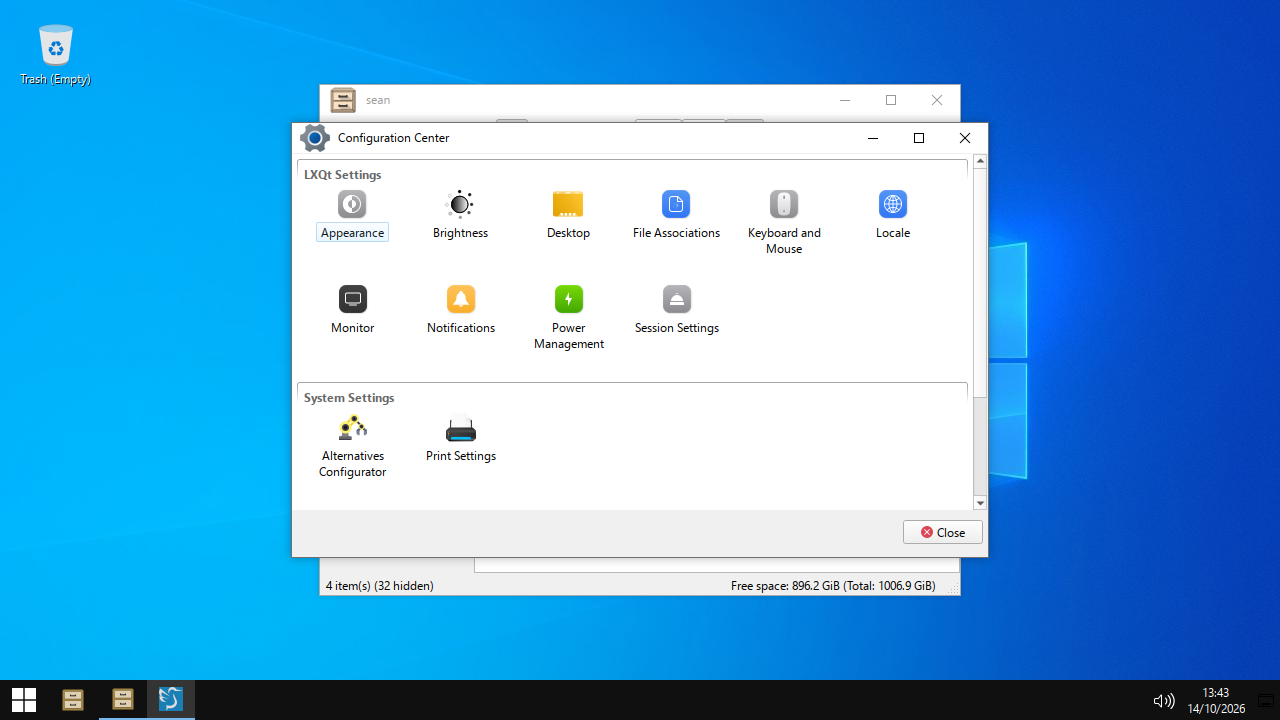
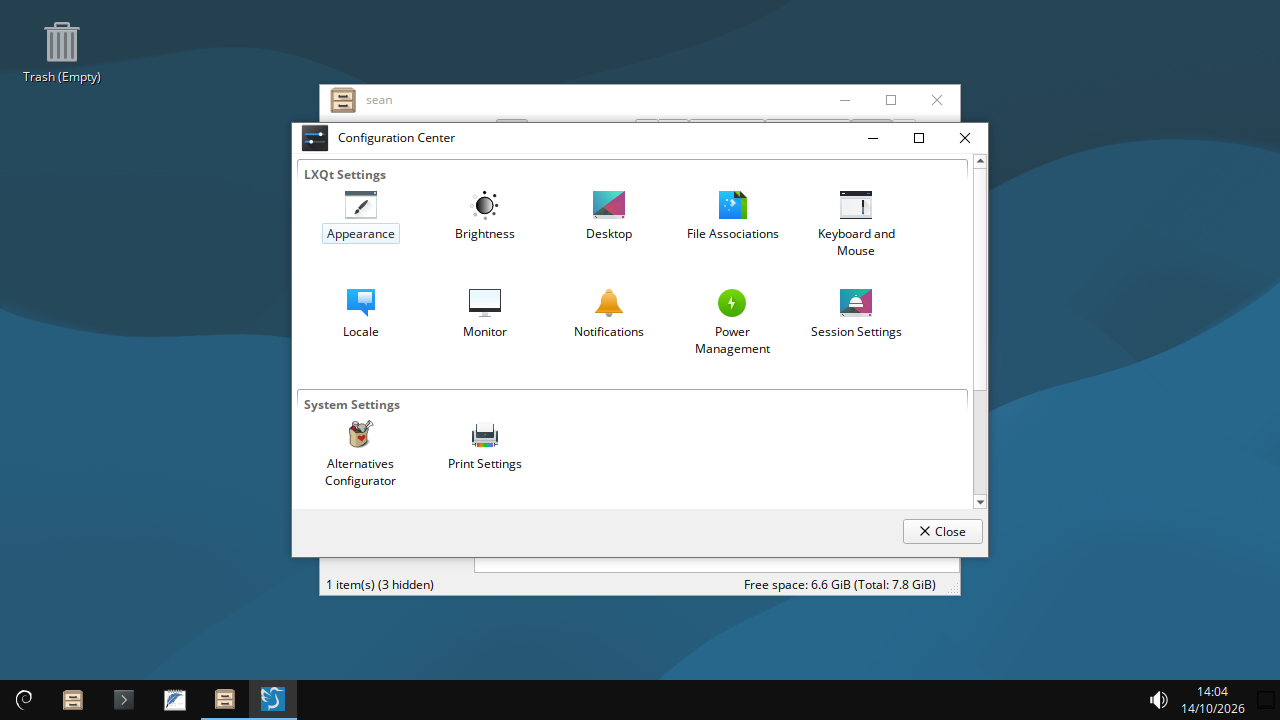
[SEAN-665] fix: winlike uses Debian defaults, not Microsoft assets
winlike keeps the Windows 10 behavior and layout, but uses no Microsoft
files and no copies of them.

- Icons: breeze. Cursors: Breeze_Light. GTK: Adwaita. Font: Open Sans.
  Wallpaper and start button logo: desktop-base.
- install.sh fetches nothing from GitHub and copies nothing from C:\Windows.
  It removes the Windows files that older versions installed.
- A small winlike icon theme adds white breeze-dark volume glyphs, so the
  glyph is legible on the dark taskbar.
- The Win10 themes are now winlike themes. We drew them.
- Menu labels and the README give the true app names.

diff --git a/utils/winlike/README.md b/utils/winlike/README.md
@@ -1,19 +1,25 @@
 # winlike
 
-A Linux desktop with the look and feel of Windows 10. It runs in a window on
-the Windows desktop through WSLg, so you can change it and test it quickly.
+A Linux desktop with the behavior and layout of Windows 10. It runs in a window
+on the Windows desktop through WSLg, so you can change it and test it quickly.
+
+It uses no Microsoft files and no copies of them. The icons, cursors, font,
+wallpaper and start button logo are Debian defaults. Each menu label gives the
+name of the app that it opens.
 
 ![winlike desktop](screenshot.png)
 
 | Part | Tool |
 |---|---|
-| Window manager (compositor) | [labwc](https://labwc.github.io/) 0.8 with the `Win10` theme from this directory |
-| Taskbar and start menu | `lxqt-panel` 2.1 with the `Win10` LXQt theme from this directory |
+| Window manager (compositor) | [labwc](https://labwc.github.io/) 0.8 with the `winlike` theme from this directory |
+| Taskbar and start menu | `lxqt-panel` 2.1 with the `winlike` LXQt theme from this directory |
 | Desktop (wallpaper, icons, rubber-band select) | `pcmanfm-qt --desktop` |
-| Icons | [We10X](https://github.com/yeyushengfan258/We10X-icon-theme) |
-| Cursors | [We10XOS-cursors](https://github.com/yeyushengfan258/We10XOS-cursors) |
-| GTK theme | [B00merang Windows-10](https://github.com/B00merang-Project/Windows-10) |
-| Fonts and wallpaper | Segoe UI, Consolas and `img0` from `C:\Windows` |
+| Icons | breeze (`breeze-icon-theme`). The taskbar volume glyph comes from breeze-dark. |
+| Cursors | Breeze_Light (`breeze-cursor-theme`) |
+| GTK theme | Adwaita, the GTK default |
+| Font | Open Sans (`fonts-open-sans`). Monospace stays the Debian default, DejaVu Sans Mono. |
+| Wallpaper | The Debian default (`desktop-base`) |
+| Start button | The Debian logo (`desktop-base`) |
 
 Tested on Debian 13 (trixie) in WSL2 on Windows 10, with WSLg.
 
@@ -44,11 +50,11 @@ utils/winlike/uninstall.sh   # remove it all
 | Win+Shift+Up | Stretch the window to full height |
 | Win+D, Win+M | Show the desktop |
 | Win+1 to Win+9 | Open the app at that taskbar position |
-| Win+E | File Explorer (`pcmanfm-qt`) |
-| Win+R | Run (`lxqt-runner`) |
-| Win+I | Settings (`lxqt-config`) |
-| Win+X | Quick Link menu |
-| Ctrl+Shift+Esc | Task Manager (`qps`) |
+| Win+E | PCManFM-Qt file manager (`pcmanfm-qt`) |
+| Win+R | LXQt Runner (`lxqt-runner`) |
+| Win+I | LXQt Configuration Center (`lxqt-config`) |
+| Win+X | Win+X menu (Windows calls it the Quick Link menu) |
+| Ctrl+Shift+Esc | Qps process viewer (`qps`) |
 | PrtScn | Copy the screen to the clipboard |
 | Win+PrtScn | Save `~/Pictures/Screenshots/Screenshot (N).png` |
 | Win+Shift+S | Select an area and copy it to the clipboard |
@@ -75,23 +81,21 @@ window with Alt+drag, or roll it up when you scroll on the title bar.
 1. **Debian packages.** It installs these with `apt` if they are missing:
    `labwc layer-shell-qt lxqt-panel lxqt-qtplugin lxqt-notificationd
    lxqt-config lxqt-runner pcmanfm-qt qterminal featherpad qps grim slurp
-   wl-clipboard fontconfig curl ca-certificates`.
-2. **Themes from GitHub.** The script pins each one to a commit:
-
-   | Repository | Commit | Installed to |
-   |---|---|---|
-   | `B00merang-Project/Windows-10` | `3a41166` | `~/.local/share/themes/Windows-10` |
-   | `yeyushengfan258/We10X-icon-theme` | `0f52ff2` | `~/.local/share/icons/We10X`, `We10X-dark` |
-   | `yeyushengfan258/We10XOS-cursors` | `b971891` | `~/.local/share/icons/We10XOS-cursors` |
-
-3. **Files from Windows.** It copies Segoe UI and Consolas to
-   `~/.local/share/fonts/windows/`, and the Windows 10 wallpaper to
-   `~/.local/share/winlike/wallpaper.jpg`. These files come with your Windows
-   license. Do not commit them or share them.
-4. **Config files.** It copies every file in [`home/`](home/) to the same path
+   wl-clipboard breeze-icon-theme breeze-cursor-theme fonts-open-sans
+   fontconfig desktop-base`.
+2. **Files from older versions.** Older versions of `install.sh` copied
+   Windows themes, icons, cursors, fonts and the Windows wallpaper. The script
+   removes them: `~/.local/share/themes/Windows-10`, `themes/Win10`,
+   `lxqt/themes/Win10`, `icons/We10X`, `icons/We10X-dark`,
+   `icons/We10XOS-cursors`, `fonts/windows` and `winlike/wallpaper.jpg`.
+3. **Config files.** It copies every file in [`home/`](home/) to the same path
    under `~`. A file that ends in `.in` gets `@HOME@` replaced. The first
    install copies each file it replaces into `~/.local/share/winlike/backup/`.
    `uninstall.sh` puts these files back.
+4. **Taskbar volume glyphs.** It links the white breeze-dark volume glyphs into
+   `~/.local/share/icons/winlike/status/`. lxqt-panel asks for
+   `audio-volume-*-panel` icons. breeze does not have them, and its dark glyph
+   is not legible on the dark taskbar.
 5. **`~/Desktop`.** It makes this directory if it does not exist.
    `uninstall.sh` keeps it.
 
@@ -103,20 +107,24 @@ The config files:
 | `.config/labwc/menu.xml` | Window menu and Win+X menu |
 | `.config/labwc/environment` | Wayland, LXQt platform theme, cursor |
 | `.config/labwc/autostart` | Starts the desktop, the taskbar and notifications |
-| `.config/lxqt/lxqt.conf` | LXQt theme, icons, cursor, Qt font, Fusion style, Windows palette |
-| `.config/lxqt/panel.conf` | Taskbar layout |
+| `.config/lxqt/lxqt.conf` | LXQt theme, icons, cursor, Qt font, Fusion style, Windows 10 colors |
+| `.config/lxqt/panel.conf` | Taskbar layout, start button logo |
 | `.config/pcmanfm-qt/winlike/settings.conf.in` | Desktop: wallpaper, Recycle Bin, icon size, font |
 | `.config/gtk-3.0/settings.ini` | GTK theme, icons, cursor, font |
-| `.config/fontconfig/fonts.conf` | ClearType-style text: full hinting, RGB subpixel antialiasing, Segoe UI as `sans-serif` |
+| `.config/fontconfig/fonts.conf` | ClearType-style text: full hinting, RGB subpixel antialiasing, Open Sans as `sans-serif` |
 | `.local/bin/winlike` | Starts the session |
 | `.local/bin/winlike-panel` | Sends a taskbar shortcut over D-Bus (start menu, show desktop, Win+N) |
 | `.local/bin/winlike-screenshot` | PrtScn, Win+PrtScn and Win+Shift+S |
-| `.local/share/themes/Win10/labwc/` | Window frame theme and caption button SVGs |
-| `.local/share/lxqt/themes/Win10/` | Taskbar and start menu theme, start button logo |
+| `.local/share/themes/winlike/labwc/` | Window frame theme and caption button SVGs |
+| `.local/share/lxqt/themes/winlike/` | Taskbar and start menu theme |
+| `.local/share/icons/winlike/` | Icon theme: breeze, with white volume glyphs on the taskbar |
 
 ## Windows 10 values in the theme
 
-- Title bar: white, 30 px high. Title in Segoe UI 9, black when active and
+We made the `winlike` labwc and LXQt themes. They copy the sizes and colors of
+Windows 10. We drew the caption button SVGs. They are not Microsoft files.
+
+- Title bar: white, 30 px high. Title in Open Sans 9, black when active and
   `#999999` when inactive.
 - Caption buttons: 46 x 30 px with 10 px glyphs. Hover is `#e5e5e5`. Close
   hover is `#e81123` with a white glyph.
@@ -141,10 +149,12 @@ The config files:
 ## Prior work
 
 - **Kali Undercover** (Kali 2019.4) makes Xfce look like Windows 10 with the
-  B00merang theme, a Windows 10 icon theme and an Xfce panel profile.
+  B00merang theme, a Windows 10 icon theme and an Xfce panel profile. winlike
+  does not use these themes.
 - **B00merang Windows-10** has an `openbox-3` theme. labwc can read it, but the
   Openbox format cannot give the 46 px buttons or the red close hover. Thus
-  this directory has a labwc theme of its own.
+  this directory has a labwc theme of its own. winlike does not use the
+  B00merang theme.
 - **LXQt on labwc**: the [openSUSE LXQt labwc page](https://en.opensuse.org/openSUSE:LXQt_labwc)
   and the [lxqt-wayland-session 0.4.0 release](https://lxqt-project.org/release/2026/04/20/lxqt-wayland-session-0-4-0/),
   which adds `openmenu`.
